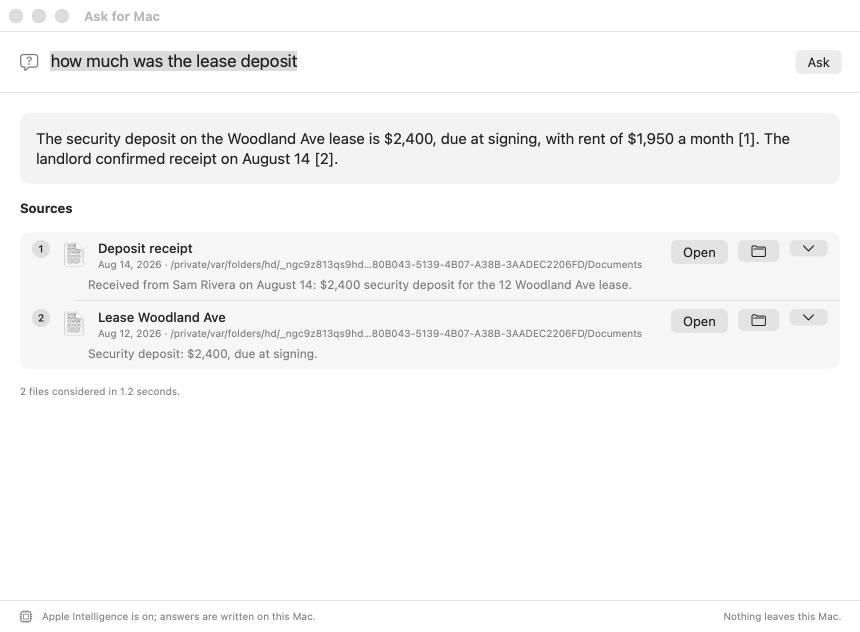
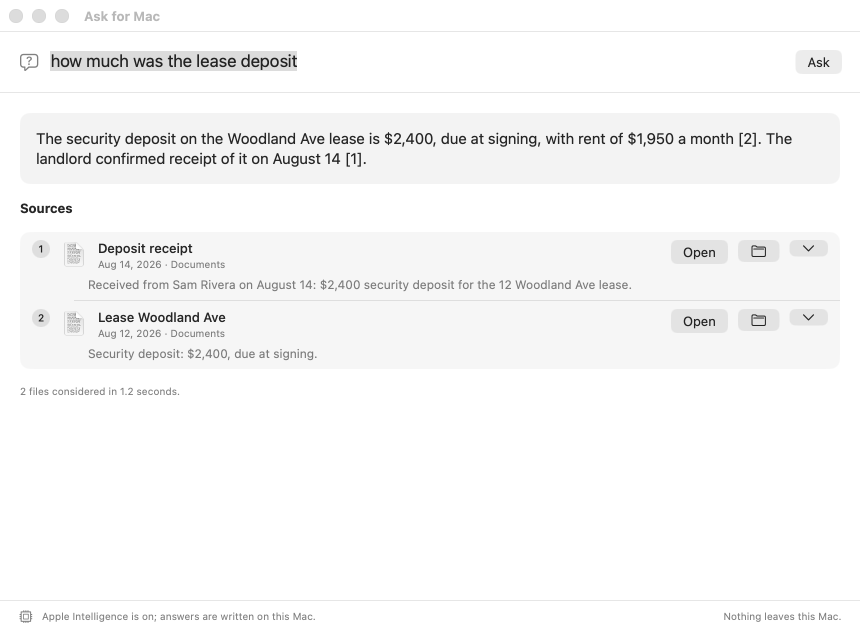
Relative source paths survive /var symlinks; demo citations match order

diff --git a/Sources/AskMac/Screenshots.swift b/Sources/AskMac/Screenshots.swift
@@ -16,7 +16,7 @@ enum Screenshots {
         let tmp = TestKit.tempDir(); defer { try? FileManager.default.removeItem(at: tmp) }
         Prefs.defaults = UserDefaults(suiteName: "com.keithadler.askmac.screenshots")!
         Prefs.defaults.removePersistentDomain(forName: "com.keithadler.askmac.screenshots")
-        Prefs.folders = [tmp.path]; Ask.useSpotlight = false
+        Prefs.folders = [tmp.appendingPathComponent("Documents").path]; Ask.useSpotlight = false
         defer { Prefs.defaults = .standard; Ask.useSpotlight = true }
         try Demo.write(tmp)
         let model = AskModel.shared
@@ -26,7 +26,7 @@ enum Screenshots {
         var written: [URL] = []
         for (suffix, appearance) in [("", NSAppearance.Name.darkAqua), ("-light", .aqua)] {
             app.appearance = NSAppearance(named: appearance)
-            for (name, question, demoAnswer) in [("answer", "how much was the lease deposit", "The security deposit on the Woodland Ave lease is $2,400, due at signing, with rent of $1,950 a month [1]. The landlord confirmed receipt on August 14 [2]."),
+            for (name, question, demoAnswer) in [("answer", "how much was the lease deposit", "The security deposit on the Woodland Ave lease is $2,400, due at signing, with rent of $1,950 a month [2]. The landlord confirmed receipt of it on August 14 [1]."),
                                                  ("empty", "", nil as String?)] {
                 model.question = question; model.answer = nil
                 if !question.isEmpty {

diff --git a/Sources/AskMac/Sources.swift b/Sources/AskMac/Sources.swift
@@ -25,8 +25,9 @@ enum Sources {
     }
     /// "Documents/Taxes" rather than a full path: relative to the searched folder when inside one, else ~.
     static func displayPath(_ url: URL) -> String {
-        for f in folders where url.path.hasPrefix(f.path) {
-            let rest = url.path.dropFirst(f.path.count)
+        let path = url.resolvingSymlinksInPath().path     // /var vs /private/var
+        for f in folders.map({ $0.resolvingSymlinksInPath() }) where path.hasPrefix(f.path) {
+            let rest = path.dropFirst(f.path.count)
             return f.lastPathComponent + (rest.isEmpty ? "" : String(rest))
         }
         if url.path.hasPrefix(mailFolder.path) { return "Mail" }
